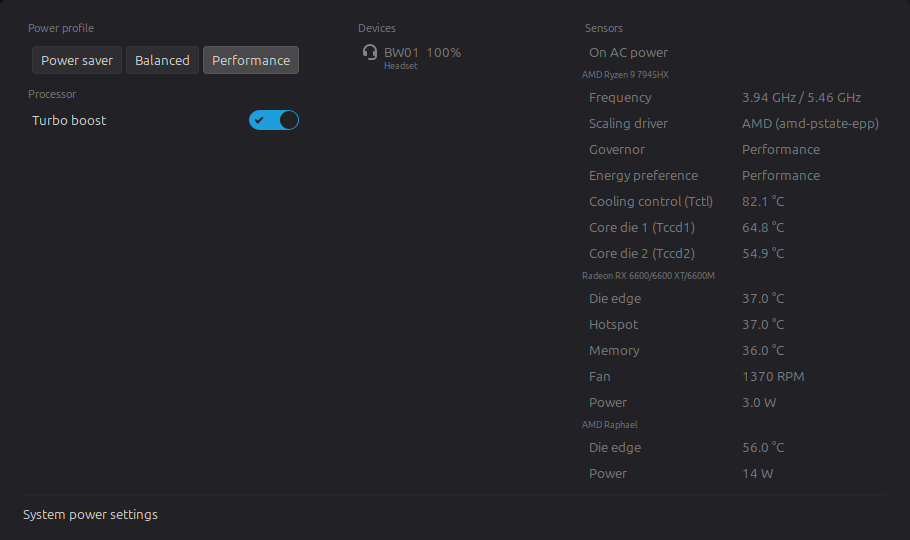
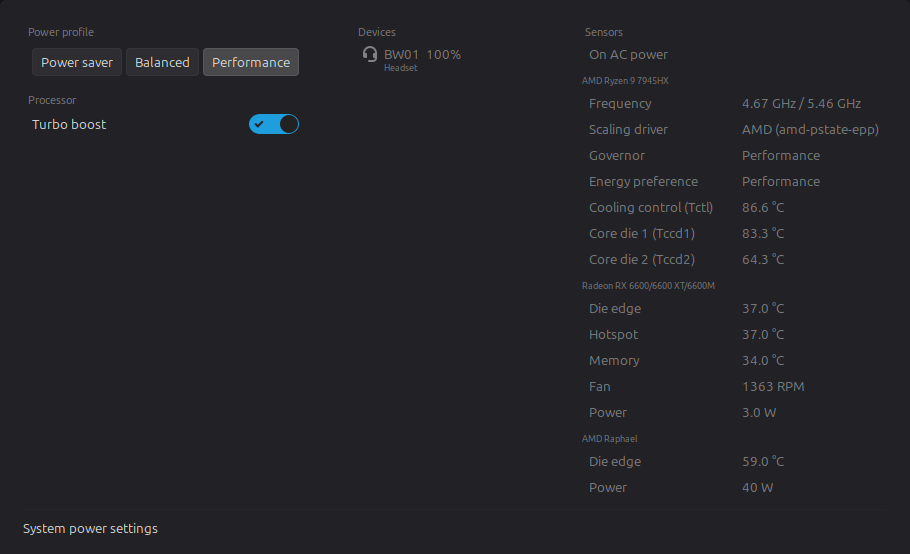
fix: let the two heading rules reach the headings (PT-115)
.powertoys-group-title and .powertoys-subgroup-title were one class each. A
menu item is a .popup-menu-item, the theme sets padding on that, and the theme
is loaded after this file - so each rule tied on specificity and lost on order,
and every padding in both of them was dead. This is the same defect
.powertoys-group-spaced was already fixed for, and the fix is the same two
class names.

Measured on the running applet against Mint-Y-Dark-Aqua, which says
`padding: .4em 1.75em`. Before: a group heading computed to 4px top and 4px
bottom, where the rule asked for 8 and 2, and a chip subheading to 4px top
where it asked for 8 - so the gap between one chip's rows and the next's was
the gap between any two rows. After: 8 and 2, and 8. The horizontal padding is
left to the theme, so a heading still lines up with the rows beneath it, and
the spaced brightness heading is unchanged at 22.

The font size and the opacity in both rules were applying all along; the theme
says nothing about either, so there was nothing for them to lose to. That is
why the hierarchy read correctly while the spacing did not.

docs/menu.png is retaken, since the menu is 14px taller for it. Captured over
the menu's own rectangle and read back before committing.

diff --git a/cinnamon-powertoys@geraldo-netto/stylesheet.css b/cinnamon-powertoys@geraldo-netto/stylesheet.css
@@ -123,8 +123,20 @@
  * What a group of rows is: the profile, the processor, the devices, the
  * sensors. A shade quieter than the rows it heads, because a heading is
  * furniture and the numbers are what is read.
+ *
+ * Two class names, for the reason spelled out under the spaced rule below: a
+ * menu item is a .popup-menu-item, the theme sets padding on that, and the
+ * theme is loaded after this file. As one class this rule tied on specificity
+ * and lost on order, so both of its paddings were dead - measured on the
+ * running applet against Mint-Y-Dark-Aqua, which says `padding: .4em 1.75em`,
+ * a heading computed to 4px top and 4px bottom rather than the 8 and 2 asked
+ * for here. The font size and the opacity were applying all along; the theme
+ * says nothing about either.
+ *
+ * Only the two paddings are named, so the horizontal one stays the theme's and
+ * a heading goes on lining up with the rows under it.
  */
-.powertoys-group-title {
+.popup-menu-item.powertoys-group-title {
     font-size: 0.83em;
     padding-top: 8px;
     padding-bottom: 2px;
@@ -146,8 +158,11 @@
 }
 
 /* Which chip a run of sensor rows came off, inside the sensors group. Smaller
- * again, so the two levels are told apart without a second colour. */
-.powertoys-subgroup-title {
+ * again, so the two levels are told apart without a second colour. Two class
+ * names for the same reason as the group heading above: alone, its padding
+ * computed to the theme's 4px and the gap between one chip's rows and the
+ * next's was the gap between any two rows. */
+.popup-menu-item.powertoys-subgroup-title {
     font-size: 0.68em;
     padding-top: 8px;
     opacity: 0.65;

diff --git a/todo.md b/todo.md
@@ -25,12 +25,6 @@ these are things the code has been doing all along.
 | id | severity | effort | description |
 |----|----------|--------|-------------|
 
-## Presentation
-
-| id | severity | effort | description |
-|----|----------|--------|-------------|
-| PT-115 | medium | XS | Two heading rules in the stylesheet do nothing, for the reason `.powertoys-group-spaced` was already fixed for. [`.powertoys-group-title`](cinnamon-powertoys@geraldo-netto/stylesheet.css#L127) and [`.powertoys-subgroup-title`](cinnamon-powertoys@geraldo-netto/stylesheet.css#L150) are one class each; the theme sets padding on `.popup-menu-item`, which is also one class and is loaded after this file, so it ties on specificity and wins on order. Mint-Y-Dark-Aqua, the theme in use here, says `padding: .4em 1.75em` — so the 2px under a group heading is really the theme's, and neither `padding-top` has ever applied. Give both the two-class form the spaced rule already uses, then re-measure rather than assuming the numbers were right when they were written. |
-
 ## Code and tests
 
 | id | severity | effort | description |
